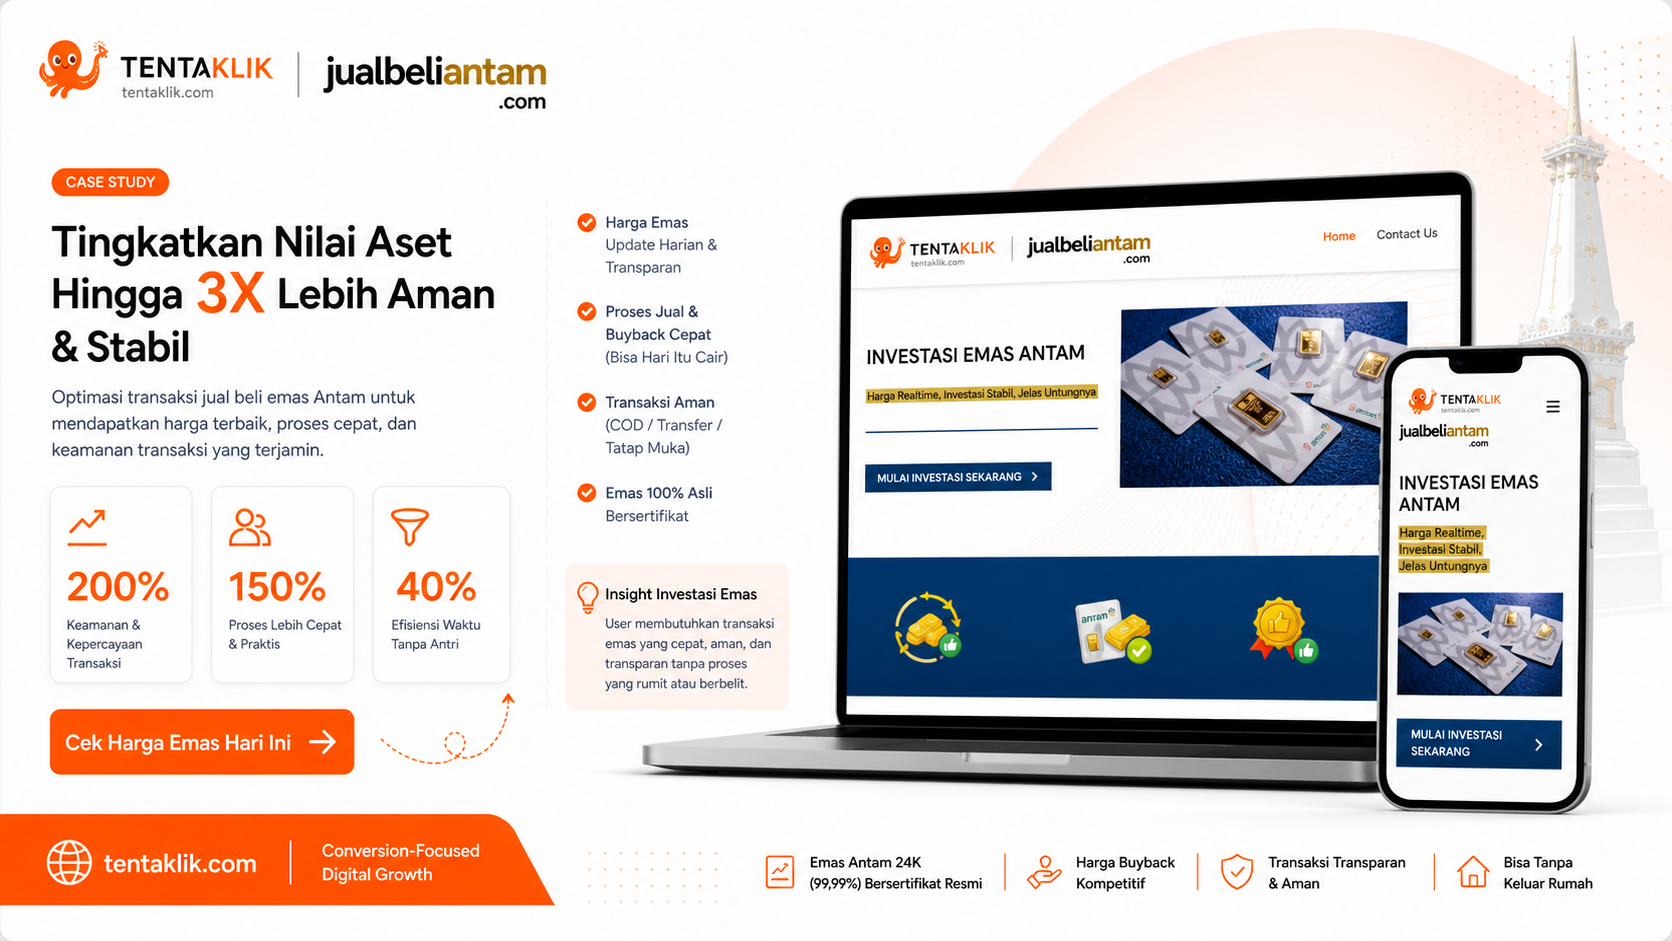
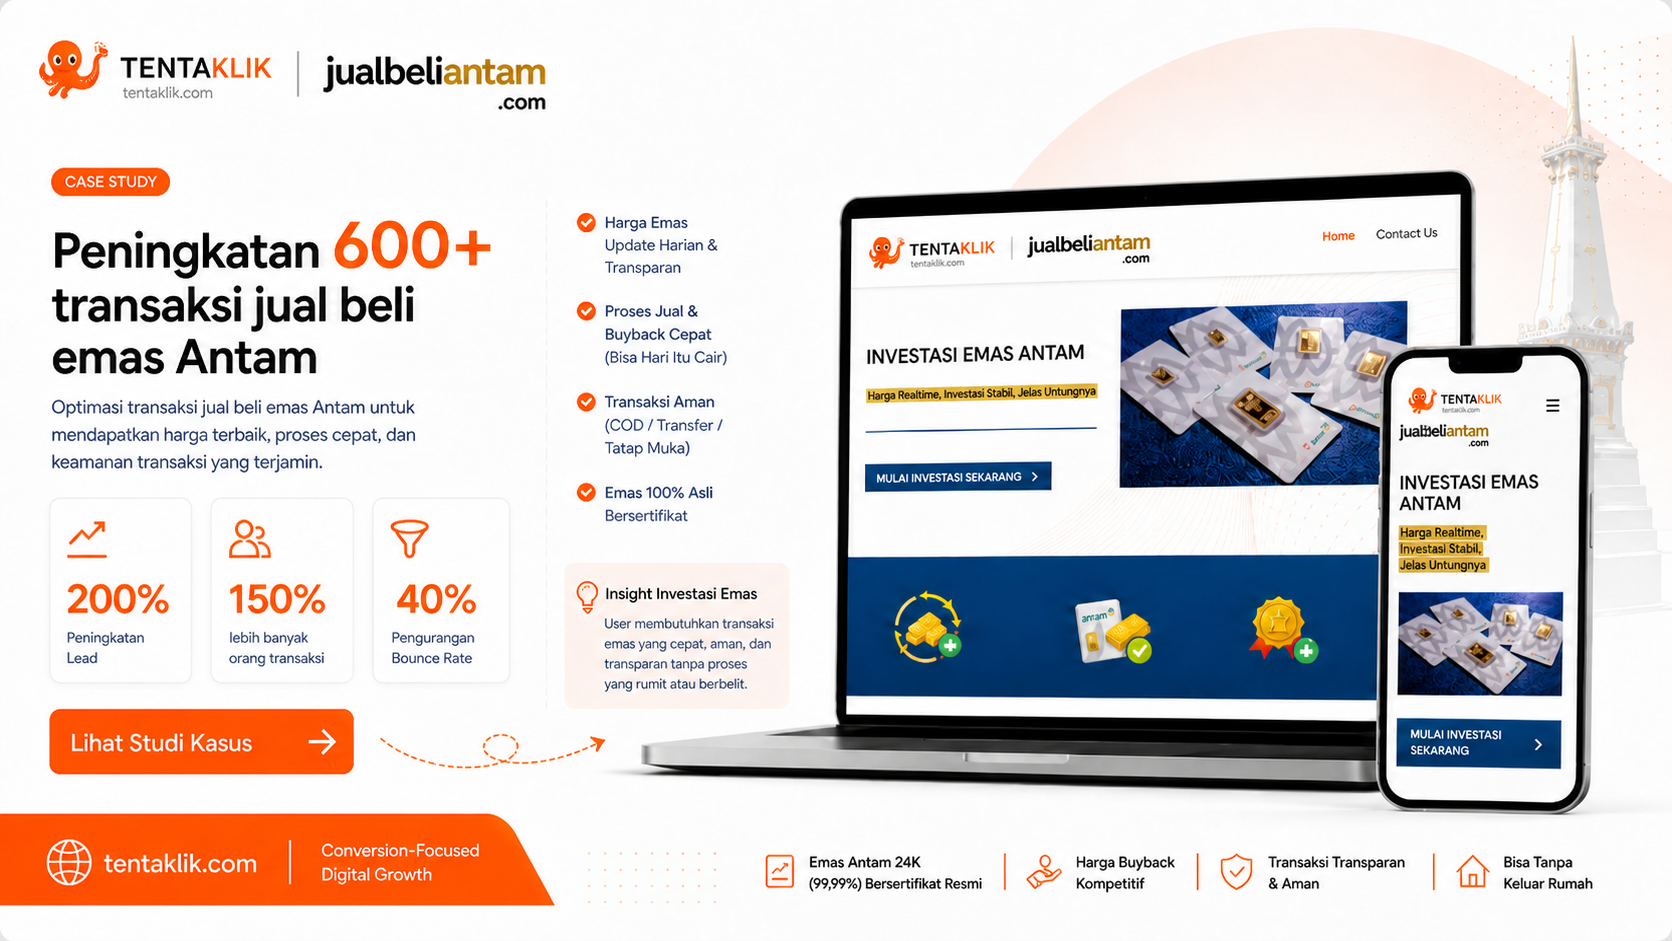
Update case study assets and enhance case studies content

diff --git a/src/content/case-studies/emas-antam.md b/src/content/case-studies/emas-antam.md
@@ -1,7 +1,7 @@
 ---
 brand: "Emas Antam"
-metric: "6000+ Penjualan"
-desc: "Penjualan emas Antam online — landing page terpercaya + ads campaign yang mendorong ratusan transaksi dari buyer yang siap beli."
+metric: "500+ Transaksi"
+desc: "Kami membantu JualBeliAntam.com menghasilkan lebih dari 500 transaksi jual beli emas Antam melalui tiga pendekatan: redesign website yang bersih dan terpercaya, optimasi SEO untuk keyword bernilai tinggi, dan Google Search Ads yang menargetkan calon customer yang siap melakukan transaksi. Dalam transaksi jual beli emas, tampilan website adalah jaminan kepercayaan — dan kepercayaan adalah mata uang utama."
 tags: ["Website", "Google Ads", "Meta Ads"]
 industry: "Investment"
 period: "10 bulan"

diff --git a/src/content/case-studies/jogja-ride.md b/src/content/case-studies/jogja-ride.md
@@ -1,7 +1,7 @@
 ---
 brand: "Jogja Ride"
-metric: "6000+ Penyewa"
-desc: "Jasa rental kendaraan di Yogyakarta — website booking + Google Ads search yang mengubah pencarian wisatawan jadi penyewa langsung."
+metric: "10.000+ Penyewa"
+desc: "Kami membantu Rental Motor 99 Jogja mendatangkan lebih dari 10.000 penyewa motor melalui website yang rapi dan SEO-friendly. Website dioptimasi sampai ranking halaman 1 Google, didukung Google Search Ads untuk menargetkan wisatawan yang butuh motor saat itu juga. Hasilnya, traffic website meningkat drastis dalam beberapa waktu."
 tags: ["Website", "Google Ads"]
 industry: "Travel"
 period: "8 bulan"

diff --git a/src/content/case-studies/unnisula.md b/src/content/case-studies/unnisula.md
@@ -1,7 +1,7 @@
 ---
 brand: "Unnisula"
 metric: "6.000+ Mahasiswa Baru"
-desc: "Universitas Islam Sultan Agung Semarang — digital campaign penerimaan mahasiswa baru yang menjangkau calon mahasiswa se-Indonesia lewat multi-channel ads."
+desc: "Kami membantu Unnisula mendatangkan lebih dari 6.000 pendaftar mahasiswa baru melalui empat pendekatan: redesign website yang lebih rapi dan fokus konversi, optimasi SEO sampai ranking halaman 1 Google, serta campaign Meta Ads dan Google Search Ads yang menjangkau calon mahasiswa se-Indonesia."
 tags: ["Google Ads", "Meta Ads"]
 industry: "Education"
 period: "1 tahun"
